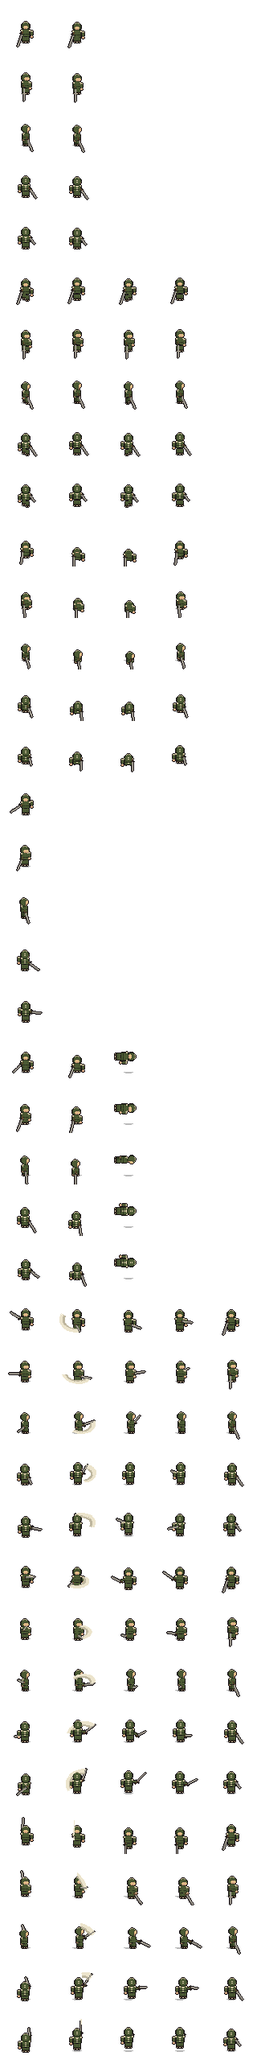
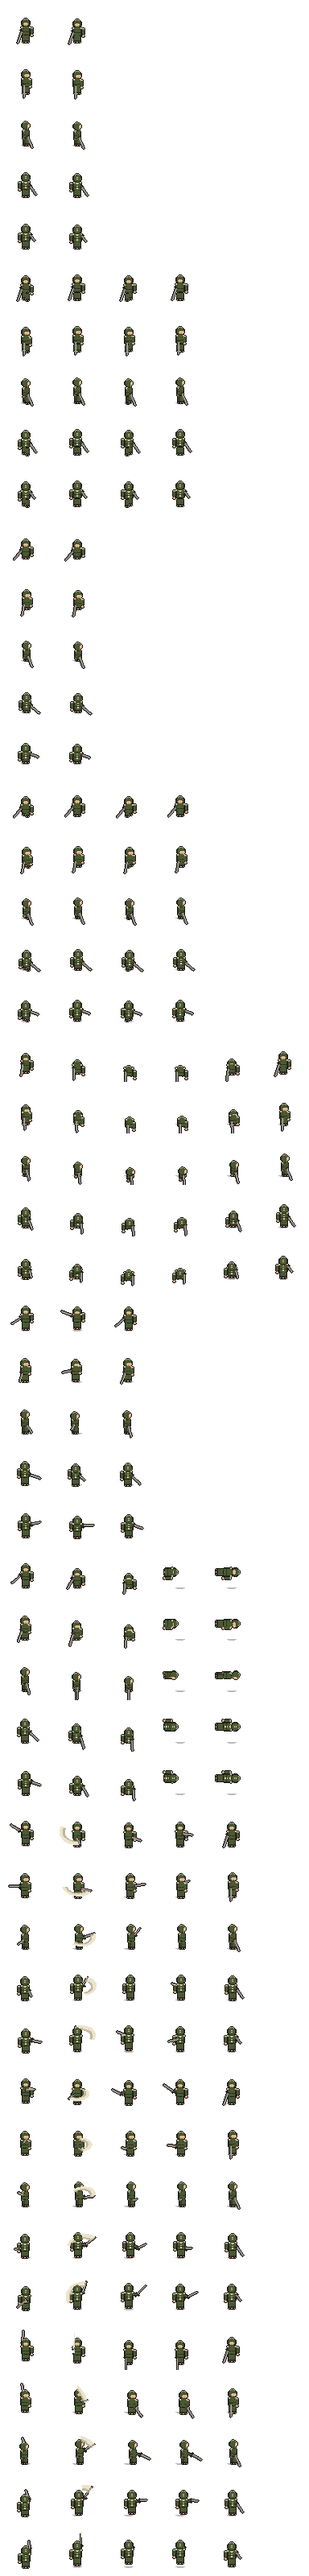
도트 주인공: 키 키우기, 웅크려 걷기·구르기 6장·피격 3장·쓰러짐 5장
Claude-Session: https://claude.ai/code/session_01Vq3FZ4fVsT8bviQCrnkBFu

diff --git a/tools/art/pixel_hero.py b/tools/art/pixel_hero.py
@@ -319,6 +319,19 @@ NbbN"""),
  },
 }
 
+# ---------------- 키 키우기: 몸통·팔·다리에 줄을 복제해 늘림 (도트가 뭉개지지 않음) ----------------
+def grow(grid, rows):
+    out = []
+    for i, r in enumerate(grid):
+        out.append(r)
+        if i in rows: out.append(r)
+    return out
+
+for _o in OUTFITS.values():
+    _o['torso'] = {k: grow(v, (3, 6)) for k, v in _o['torso'].items()}   # 몸통 9 → 11줄
+    _o['arm'] = grow(_o['arm'], (2, 4))                                    # 팔 9 → 11줄
+    _o['leg'] = grow(_o['leg'], (1, 3))                                    # 다리 7 → 9줄
+
 # ---------------- 무기 (규칙으로 그림) ----------------
 WEAPONS = {
  'rusty_sword':    {'cls': 'sword',      'len': 13, 'w': 2, 'blade': (185, 179, 165), 'dark': (120, 116, 108), 'hilt': (90, 58, 34), 'guard': (42, 36, 32)},
@@ -336,15 +349,33 @@ def P(**k):
 def W(a, e, r, z=0): return dict(a=a, e=e, r=r, z=z)
 REST = W(40, -55, 2)
 
+TUCK = W(20, -80, 0)
 COMMON = {
  'idle': [P(), P(bob=1)],
  'walk': [P(legL=(0, -1), legR=(0, 1), off=(0, 1)), P(bob=-1), P(legL=(0, 1), legR=(0, -1), off=(0, -1)), P(bob=-1)],
+ # 웅크려 걷기(스닉): 몸을 낮추고 앞으로 숙임, 칼은 낮게, 보폭 작게
+ 'sneak_idle': [P(crouch=3, bob=2, head=1, lunge=1, w=W(60, -35, 2)), P(crouch=3, bob=3, head=1, lunge=1, w=W(60, -35, 2))],
+ 'sneak': [P(crouch=3, bob=2, head=1, lunge=1, legL=(0, -1), legR=(0, 1), off=(0, 1), w=W(60, -35, 2)),
+           P(crouch=3, bob=1, head=1, lunge=1, w=W(60, -35, 2)),
+           P(crouch=3, bob=2, head=1, lunge=1, legL=(0, 1), legR=(0, -1), off=(0, -1), w=W(60, -35, 2)),
+           P(crouch=3, bob=1, head=1, lunge=1, w=W(60, -35, 2))],
+ # 구르기: 몸 숙임 → 말아 넣음 → 공처럼 굴러감 → 펴며 일어남
  'roll': [P(crouch=2, bob=2, head=2, w=W(30, -70, 0)),
-          P(crouch=4, bob=5, head=4, lunge=1, w=W(20, -80, 0)),
-          P(crouch=4, bob=6, head=5, lunge=2, w=W(20, -80, 0)),
-          P(crouch=2, bob=2, head=1, lunge=1, w=W(30, -70, 0))],
- 'hurt': [P(lunge=-2, head=1, off=(0, -2), w=W(70, -20, 3))],
- 'death': [P(crouch=1, bob=1, lunge=-1, w=W(80, -40, 2)), P(crouch=3, bob=3, lunge=-2, w=W(100, -70, 1)), P(rot=90, weapon=False)],
+          P(crouch=4, bob=4, head=5, lunge=1, off=(0, 2), w=TUCK),
+          P(crouch=6, bob=6, head=8, lunge=2, off=(0, 3), w=TUCK),
+          P(crouch=6, bob=5, head=8, lunge=3, off=(0, 3), w=TUCK),
+          P(crouch=4, bob=3, head=4, lunge=3, off=(0, 1), w=W(30, -70, 1)),
+          P(crouch=1, bob=1, head=1, lunge=2, w=REST)],
+ # 피격: 움찔 → 밀려남(칼 젖혀짐) → 버팀
+ 'hurt': [P(lunge=-1, head=1, off=(0, -1), w=W(60, -10, 3)),
+          P(crouch=1, lunge=-3, head=2, off=(0, -2), w=W(105, 10, 3, 2)),
+          P(crouch=1, lunge=-2, head=1, w=W(70, -30, 2))],
+ # 쓰러짐: 휘청 → 무릎 꿇음 → 칼 떨굼 → 앞으로 쓰러짐 → 누움
+ 'death': [P(lunge=-1, head=1, w=W(70, -30, 3)),
+           P(crouch=3, bob=2, head=2, lunge=-1, w=W(90, -60, 2)),
+           P(crouch=5, bob=4, head=3, lunge=0, w=W(100, -85, 1)),
+           P(crouch=5, bob=4, head=4, rot=90, weapon=False),
+           P(rot=90, weapon=False)],
 }
 # 한손검 3연타: 가로 베기(오른쪽→왼쪽) → 올려 베기(왼쪽→오른쪽) → 내려찍기
 SWORD = {
@@ -461,7 +492,7 @@ def draw(outfit_key, weapon_key, view, pose):
     legs = leg[cr:]
     lx = round(face[0] * pose['lunge']); ly = round(face[1] * pose['lunge'] * SQUASH)
     legTop = FOOT_Y - len(legs) + 1 + ly
-    torsoY = legTop - 9 + pose['bob']
+    torsoY = legTop - len(o['torso'][view]) + pose['bob']
     headY = torsoY - 10 + pose['head']
     head = (o['head'] or HEAD)[view]
     torso = o['torso'][view]
@@ -511,7 +542,7 @@ def draw(outfit_key, weapon_key, view, pose):
     if not behind: weapon_layer()
 
     if pose['rot']:
-        body = img.crop((12, FOOT_Y - 34, 52, FOOT_Y + 2))
+        body = img.crop((12, FOOT_Y - 40, 52, FOOT_Y + 2))
         for _ in range(pose['rot'] // 90):
             body = body.transpose(Image.Transpose.ROTATE_270)
         img = Image.new('RGBA', (F, F), (0, 0, 0, 0))
